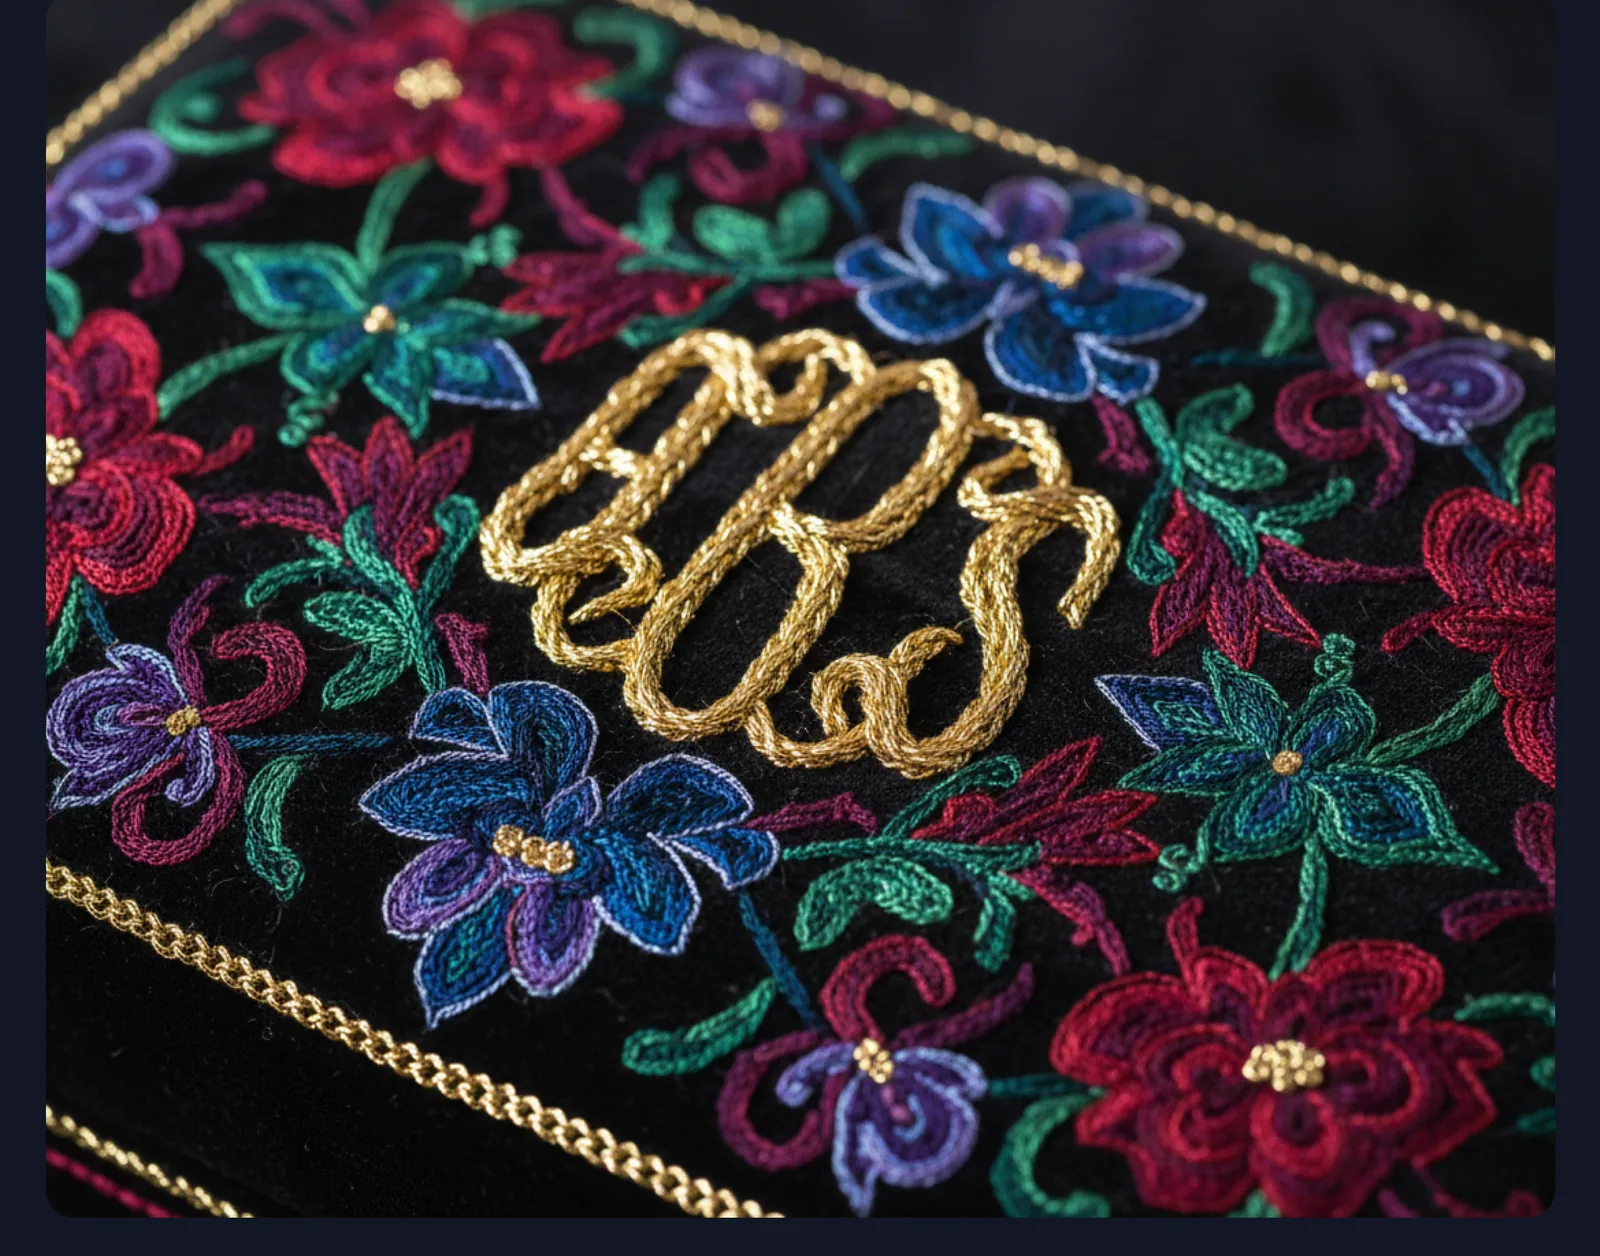
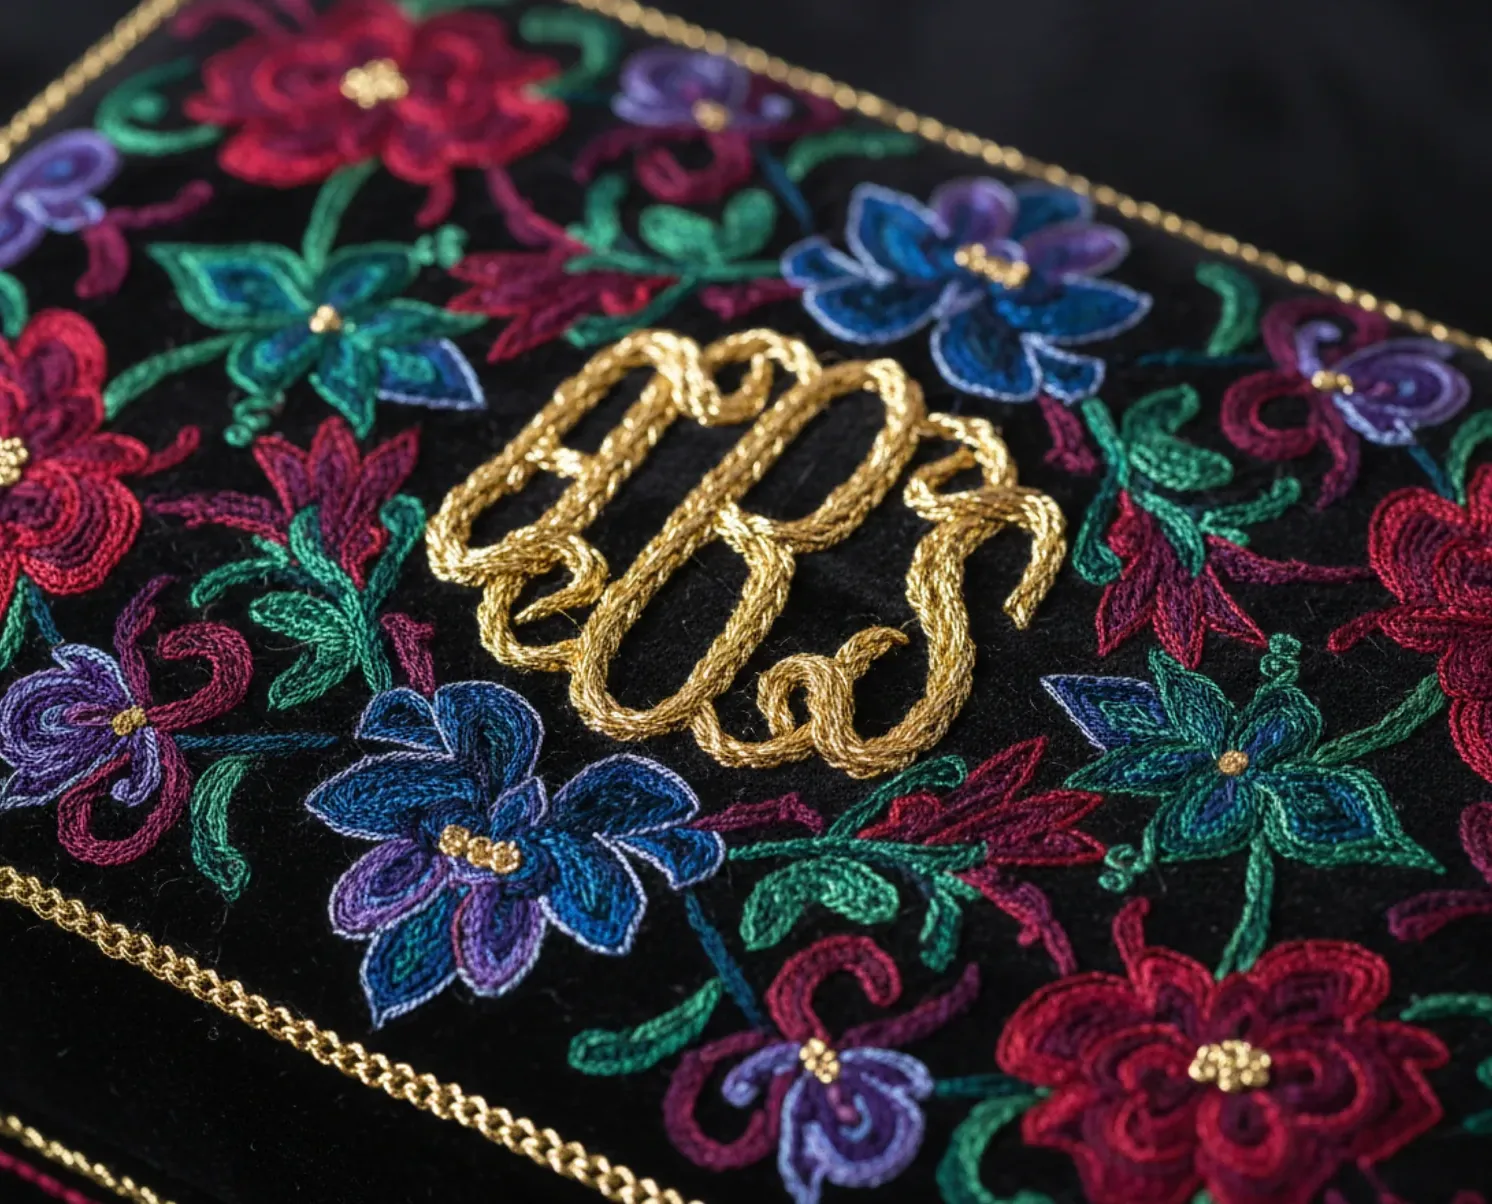
Mobile responsiveness pass: fix Contact overflow and tidy image framing
Audited all five pages at ten widths (320-1023px): the only real
horizontal overflow was the Contact info row at ~768px, where three
columns (location/hours/contact) squeezed into a 700px container and
the long email pushed 31px past the viewport. Move that row into a
wider container, stack it 1/2/3 columns by breakpoint, and let long
text wrap.

Also: show the whole badge in the mobile hero 2x2 grid (the officer
cap was clipped), scale the footer watermark so the full brand name
fits on phones, shrink the Contact hero heading so it clears the
badge photo, give gallery badges a little more room on phones, and
trim baked-in dark margins from the About floral-monogram and
peacock images.

diff --git a/src/pages/Contact.jsx b/src/pages/Contact.jsx
@@ -82,7 +82,7 @@ export default function Contact() {
         <div className="absolute inset-0 bg-cover bg-center" style={{ backgroundImage: `url(${heroBgImg})` }} />
         <div className="absolute inset-0 bg-[linear-gradient(to_right,rgba(6,6,10,0.75)_0%,rgba(6,6,10,0.55)_42%,rgba(6,6,10,0.3)_58%,rgba(6,6,10,0.1)_75%)]" />
         <div className="relative mx-auto max-w-300 px-6 h-full flex items-center">
-          <h1 className="font-serif text-[clamp(2.4rem,4.2vw,3.6rem)] text-gold-light">Contact Us</h1>
+          <h1 className="font-serif text-[clamp(1.9rem,4.2vw,3.6rem)] text-gold-light">Contact Us</h1>
         </div>
       </section>
 
@@ -127,40 +127,40 @@ export default function Contact() {
               <p className="text-red-400 text-center">Something went wrong. Please try again.</p>
             )}
           </form>
+        </div>
 
-          <div className="grid grid-cols-1 gap-8 mt-14 sm:grid-cols-3">
-            <div className="flex gap-4">
-              <div className="w-11 h-11 rounded-full border border-gold/40 text-gold flex items-center justify-center shrink-0">
-                <FaMapMarkerAlt />
-              </div>
-              <div>
-                <p className="text-gold text-[0.7rem] tracking-widest uppercase mb-1">Our Location</p>
-                <p className="text-cream font-semibold mb-1">Factory Address</p>
-                <p className="text-muted text-sm">{siteConfig.address}</p>
-              </div>
+        <div className="mx-auto max-w-250 px-6 mt-14 grid grid-cols-1 gap-8 sm:grid-cols-2 lg:grid-cols-3">
+          <div className="flex gap-4 min-w-0">
+            <div className="w-11 h-11 rounded-full border border-gold/40 text-gold flex items-center justify-center shrink-0">
+              <FaMapMarkerAlt />
             </div>
-            <div className="flex gap-4">
-              <div className="w-11 h-11 rounded-full border border-gold/40 text-gold flex items-center justify-center shrink-0">
-                <FaClock />
-              </div>
-              <div>
-                <p className="text-gold text-[0.7rem] tracking-widest uppercase mb-1">Opening Hours</p>
-                <p className="text-cream mb-1">
-                  Mon – Sun: <span className="text-gold">9am – 10pm</span>
-                </p>
-                <p className="text-muted text-sm">Sunday: Open</p>
-              </div>
+            <div>
+              <p className="text-gold text-[0.7rem] tracking-widest uppercase mb-1">Our Location</p>
+              <p className="text-cream font-semibold mb-1">Factory Address</p>
+              <p className="text-muted text-sm">{siteConfig.address}</p>
             </div>
-            <div className="flex gap-4">
-              <div className="w-11 h-11 rounded-full border border-gold/40 text-gold flex items-center justify-center shrink-0">
-                <FaPhoneAlt />
-              </div>
-              <div>
-                <p className="text-gold text-[0.7rem] tracking-widest uppercase mb-1">Contact</p>
-                <p className="text-muted text-sm mb-1">{siteConfig.phoneNumbers.join(', ')}</p>
-                <p className="text-muted text-sm mb-1">{siteConfig.contactEmail}</p>
-                <p className="text-muted text-sm">www.thehandembroidery.com</p>
-              </div>
+          </div>
+          <div className="flex gap-4 min-w-0">
+            <div className="w-11 h-11 rounded-full border border-gold/40 text-gold flex items-center justify-center shrink-0">
+              <FaClock />
+            </div>
+            <div>
+              <p className="text-gold text-[0.7rem] tracking-widest uppercase mb-1">Opening Hours</p>
+              <p className="text-cream mb-1">
+                Mon – Sun: <span className="text-gold">9am – 10pm</span>
+              </p>
+              <p className="text-muted text-sm">Sunday: Open</p>
+            </div>
+          </div>
+          <div className="flex gap-4 min-w-0">
+            <div className="w-11 h-11 rounded-full border border-gold/40 text-gold flex items-center justify-center shrink-0">
+              <FaPhoneAlt />
+            </div>
+            <div>
+              <p className="text-gold text-[0.7rem] tracking-widest uppercase mb-1">Contact</p>
+              <p className="text-muted text-sm mb-1">{siteConfig.phoneNumbers.join(', ')}</p>
+              <p className="text-muted text-sm mb-1 [overflow-wrap:anywhere]">{siteConfig.contactEmail}</p>
+              <p className="text-muted text-sm [overflow-wrap:anywhere]">www.thehandembroidery.com</p>
             </div>
           </div>
         </div>

diff --git a/src/pages/Home.jsx b/src/pages/Home.jsx
@@ -293,22 +293,22 @@ export default function Home() {
             <img
               src={phoenixShieldImg}
               alt="Hand-embroidered phoenix shield badge"
-              className="w-full aspect-square object-cover rounded border border-gold/20"
+              className="w-full aspect-square object-contain bg-ink rounded border border-gold/20"
             />
             <img
               src={leopardPatchImg}
               alt="Hand-embroidered leopard patch"
-              className="w-full aspect-square object-cover rounded border border-gold/20"
+              className="w-full aspect-square object-contain bg-ink rounded border border-gold/20"
             />
             <img
               src={officerCapImg}
               alt="Ceremonial officer cap with gold leaf embroidery"
-              className="w-full aspect-square object-cover rounded border border-gold/20"
+              className="w-full aspect-square object-contain bg-ink rounded border border-gold/20"
             />
             <img
               src={crestShieldImg}
               alt="Royal crest hand-embroidered patch"
-              className="w-full aspect-square object-cover rounded border border-gold/20"
+              className="w-full aspect-square object-contain bg-ink rounded border border-gold/20"
             />
           </div>
         </div>

diff --git a/src/pages/Gallery.jsx b/src/pages/Gallery.jsx
@@ -128,7 +128,7 @@ export default function Gallery() {
           <div className="grid grid-cols-2 gap-6 sm:grid-cols-4">
             {gallery.map((item, i) => (
               <div className={`${cardOutline} bg-navy overflow-hidden`} key={`${item.title}-${i}`}>
-                <img loading="lazy" src={item.img} alt={item.title} className="w-full aspect-square object-contain p-3" />
+                <img loading="lazy" src={item.img} alt={item.title} className="w-full aspect-square object-contain p-1.5 sm:p-3" />
               </div>
             ))}
           </div>

diff --git a/src/components/Footer.jsx b/src/components/Footer.jsx
@@ -94,7 +94,7 @@ export default function Footer() {
 
       <div
         aria-hidden="true"
-        className="relative z-10 text-center font-serif font-bold text-[clamp(2.5rem,9vw,6rem)] leading-none whitespace-nowrap overflow-hidden pb-2"
+        className="relative z-10 text-center font-serif font-bold text-[clamp(1.3rem,6.6vw,6rem)] leading-none whitespace-nowrap overflow-hidden pb-2"
         style={{ color: 'rgba(212, 165, 55, 0.08)' }}
       >
         {brandName.toUpperCase()}
